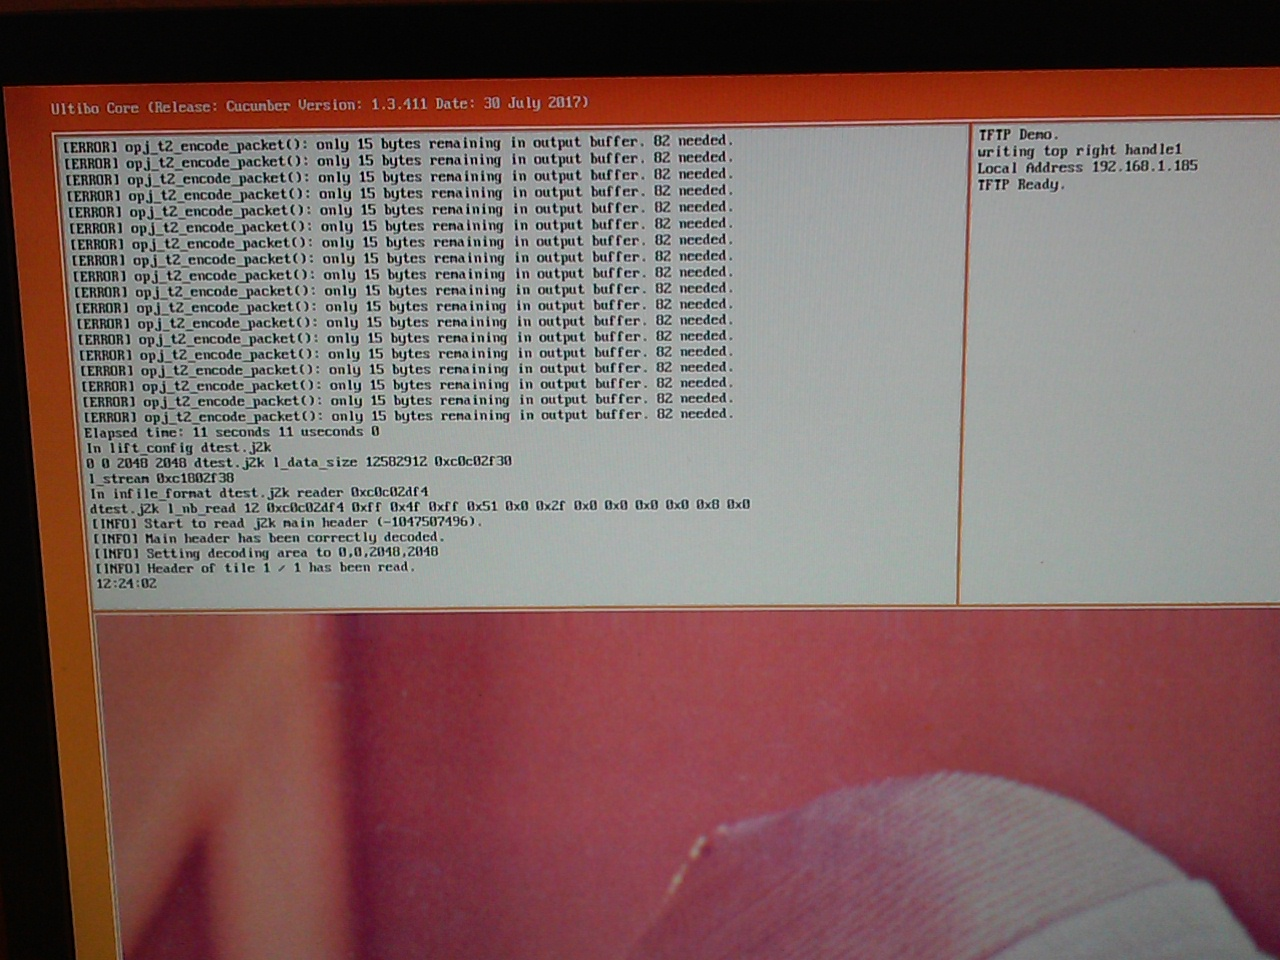
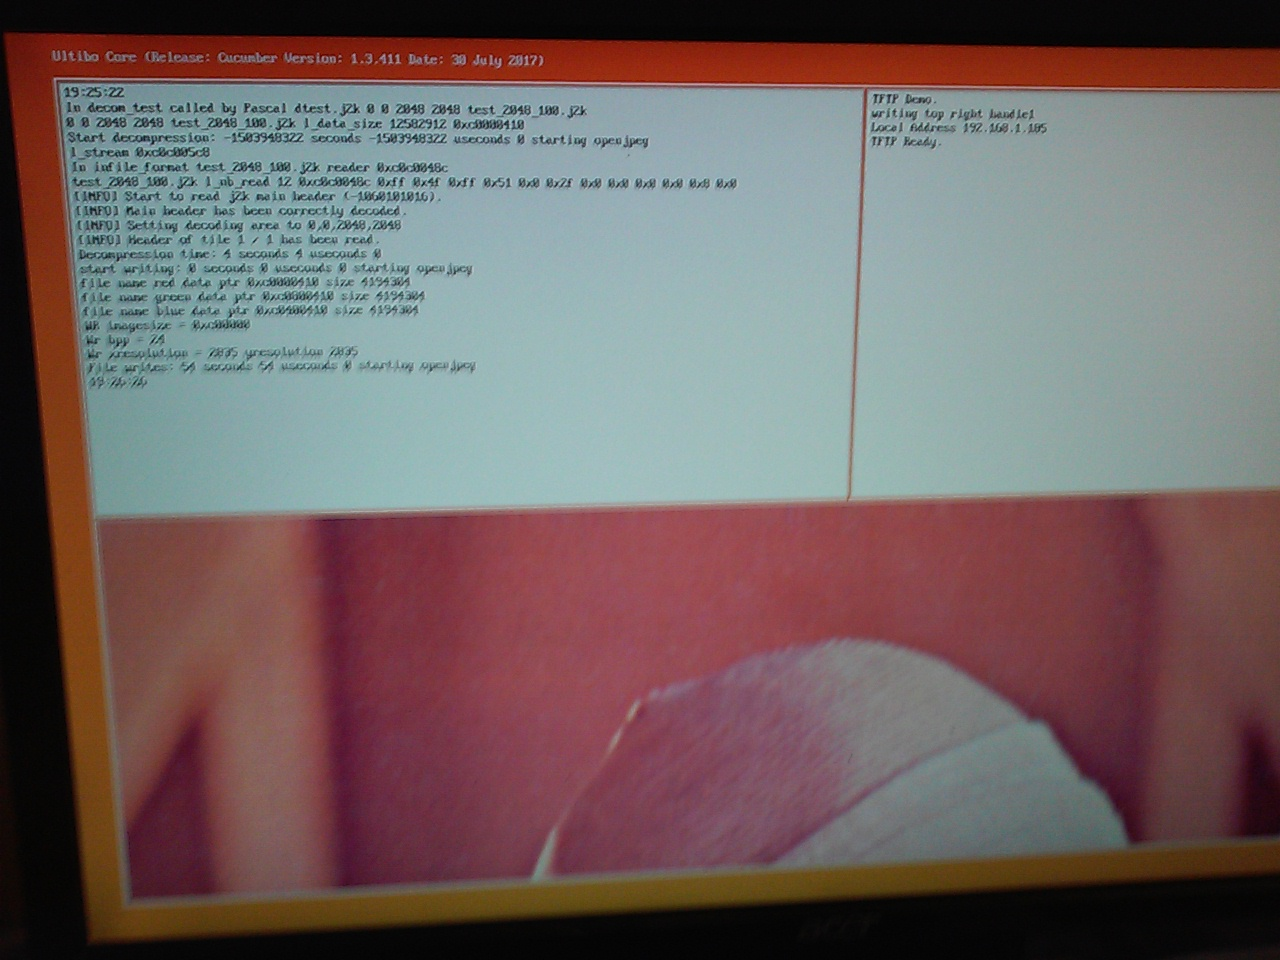
cd jpeg-2000-test/bare-metal/openjp/ export PATH=/home/pi/ultibo/core/fpc/bin:$PATH ./compile.sh creates kernel7.img
ENCODE:=0;  does decompression
Requires
 da_x0:=0;
 da_y0:=0;
 da_x1:=2048;
 da_y1:=2048;
 ff:='test_2048_100.j2k';

test_wr.bmp is the output file
displays test_wr,bmp

ENCODE:=1;  does compression
The input file is MyBitmap.bmp
FILTER 0 5/3 DWT
FILTER 1 9/7 DWT
DECOMP:=4; number of resolutions
DIS_CR_FLG := 0;	COMPRESSION_RATIO := 4;
DIS_CR_FLG := 1;	TCP_DISTORATIO:=60;
test,j2k is the output file

diff --git a/bare-metal/openjp/dwtlift.c b/bare-metal/openjp/dwtlift.c
@@ -112,7 +112,24 @@ void Wr_p_matrix(RGB** Matrix,char *r,char *g,char *b) {
 		}
 	}
 }
-
+void Wr_pp_matrix(RGB** Matrix,char *r,char *g,char *b) {
+	int i,j;
+	RGB tmp;
+	for (i=0; i<height; i++){
+		for (j=0; j<width; j++){
+			
+			//printf("%d %d 0x%x 0x%x 0x%x \n ",i,j,tmp.RGB[1],tmp.RGB[0],tmp.RGB[2]);
+			tmp.RGB[1] = r[0];
+			r++;
+			tmp.RGB[0] = b[0];
+			b++;			
+			tmp.RGB[2] = g[0];
+			g++;
+			//printf("0x%x 0x%x 0x%x \n",tmp.RGB[0],tmp.RGB[1],tmp.RGB[2]);	
+			Matrix[i][j] = tmp;		
+		}
+	}
+}
 /*upside down data in bitmap*/
 void p_matrix(RGB** Matrix,char *r,char *g,char *b) {
 	int i,j;
@@ -228,7 +245,7 @@ void writeImage(FILE *arqw, RGB** Matrix){
             tmp = Matrix[i][j];
             //printf("0x%x 0x%x 0x%x \n",tmp.RGB[0],tmp.RGB[1],tmp.RGB[2]);
             //fwrite(&tmp,(sizeof(RGB)),1,arqw);
-            //Matrix[i][j] = tmp;
+            Matrix[i][j] = tmp;
             wrbuf[0] = (char)tmp.RGB[0];
             wrbuf++;
             wrbuf[0] = (char)tmp.RGB[1];
@@ -251,25 +268,40 @@ void writeInfo(FILE *arqw,INFOHEADER infowrite){
     //INFOHEADER info;
     char type[3];
     int hdr;
-    char offset=122,unknow=108;
+	char offset=122,unknow=108;
     
     hdr = infowrite.height*infowrite.width*3+offset;
     type[0] = 0x42;
     type[1] = 0x4D;
-
+    
+	fseek(arqw,0,0);
+    fwrite(type,1,2,arqw);
     
     fseek(arqw,2,0);
     fwrite(&hdr,1,4,arqw);
 
+    type[0] = 0x00;
+    type[1] = 0x00;
+    type[2] = 0x00;
+
+    fseek(arqw,6,0);
+	fwrite(type,1,3,arqw);
+	
+    fseek(arqw,9,0);
+	fwrite(type,1,1,arqw);	  
+	  
     fseek(arqw,10,0);
     fwrite(&offset,1,1,arqw);
 
+    fseek(arqw,11,0);
+	fwrite(type,1,3,arqw);
+	
     fseek(arqw,14,0);
     fwrite(&unknow,1,1,arqw);
-    	
-	fseek(arqw,0,0);
-    fwrite(type,1,2,arqw);
-    
+
+    fseek(arqw,15,0);
+	fwrite(type,1,3,arqw);
+	    	    
     // Image Width in pixels
     fseek(arqw,18,0);
     fwrite(&infowrite.width,1,4,arqw);
@@ -295,7 +327,7 @@ void writeInfo(FILE *arqw,INFOHEADER infowrite){
     // Image size in bytes
     fseek(arqw,34,0);
     fwrite(&infowrite.imagesize,1,4,arqw);
-
+		
     fseek(arqw,38,0);
     fwrite(&infowrite.xresolution,1,4,arqw); 
     fseek(arqw,42,0);
@@ -313,11 +345,9 @@ void writeInfo(FILE *arqw,INFOHEADER infowrite){
  
     //return(info);
     //fclose(arqw);
-    type[0] = 0x00;
-    type[1] = 0x00;
-    type[1] = 0x00;
-	fseek(arqw,15,0);
-    fwrite(type,1,3,arqw);    
+
+	//fseek(arqw,15,0);
+    //fwrite(type,1,3,arqw);    
 }
 // ********** Verify if the file is BMP *********
 void isBMP(FILE* arq, INFOHEADER info){
@@ -625,11 +655,11 @@ int decompress(int da_x0, int da_y0, int da_x1, int da_y1,const char *input_file
  
 		printf("start writing: %ld seconds %ld useconds %ld starting openjpeg\n", mtime,seconds, useconds);		
 		r_decompress = 	l_data;
-		//octave_write_byte(r_decompress_fn,r_decompress,da_x1*da_y1);
-		g_decompress = 	l_data+da_x1*da_y1;
-		//octave_write_byte(g_decompress_fn,g_decompress,da_x1*da_y1);
-		b_decompress = 	l_data+da_x1*da_y1+da_x1*da_y1;
-		//octave_write_byte(b_decompress_fn,b_decompress,da_x1*da_y1);
+		octave_write_byte(r_decompress_fn,r_decompress,da_x1*da_y1);
+		g_decompress = 	l_data+da_x1*da_y1+da_x1*da_y1;
+		octave_write_byte(g_decompress_fn,g_decompress,da_x1*da_y1);
+		b_decompress = 	l_data+da_x1*da_y1;
+		octave_write_byte(b_decompress_fn,b_decompress,da_x1*da_y1);
 		/*
 		 *Writing the decompressed values 
 		 * 
@@ -659,7 +689,7 @@ int decompress(int da_x0, int da_y0, int da_x1, int da_y1,const char *input_file
 	Matrix_aux_wr = createMatrix();
  
 	
-	Wr_p_matrix(Matrix_aux_wr,b_decompress, g_decompress, r_decompress ); 
+	Wr_p_matrix(Matrix_aux_wr,g_decompress, b_decompress, r_decompress ); 
 	oo = fopen("test_wr.bmp","wb");
 	if (!oo) {
 			printf("Unable to open file for writing!");
@@ -675,12 +705,13 @@ int decompress(int da_x0, int da_y0, int da_x1, int da_y1,const char *input_file
 	infowr.planes = 1;
 	infowr.compression = 0;
 	infowr.impcolours = 0x73524742;
+	infowr.xresolution = 2835;
+	infowr.yresolution = 2835;
 	
-	printf("WR imagesc = 0x%x \n",infowr.imagesize);
+	printf("WR imagesize = 0x%x \n",infowr.imagesize);
 	printf("Wr bpp = %d \n",infowr.bpp);
 	printf("Wr xresolution = %d yresolution %d \n",infowr.xresolution,infowr.yresolution);
-	printf("bpp = %d \n",infowr.bpp);
-	printf("xresolution = %d yresolution %d \n",infowr.xresolution,infowr.yresolution);
+ 
 	writeInfo(oo,infowr);
 	writeImage(oo,Matrix_aux_wr);
 	free(Matrix_aux_wr);
@@ -779,7 +810,7 @@ void lift_config(int dec, int enc, int TCP_DISTORATIO, int FILTER, int CR, int f
 	int height, width;
 	int TopDown,plot;
 	TopDown = 0;
-	plot = 0;
+	plot = 1;
 	if (flg==0) printf("in lift_config dec %d enc %d compression CR %d bpp %d flg %d \n", dec,enc,CR,bp,flg);
 	else printf("in lift_config dec %d enc %d distoratio %d bpp %d CR %d flg %d \n", dec,enc,TCP_DISTORATIO,bp,CR,flg);
 	decomp = dec;
@@ -815,10 +846,10 @@ void lift_config(int dec, int enc, int TCP_DISTORATIO, int FILTER, int CR, int f
  
 	TopDown = 0;
 	
- 	/*char *r,*g,*b;
+ 	char *r,*g,*b;
 	const char *octave_output_file_1;
 	const char *octave_output_file_2;
-	const char *octave_output_file_3;*/
+	const char *octave_output_file_3;
 	#define NUM_COMPS_MAX 4
 	opj_cparameters_t l_param;
 	opj_codec_t * l_codec;
@@ -919,18 +950,43 @@ void lift_config(int dec, int enc, int TCP_DISTORATIO, int FILTER, int CR, int f
 		l_data[i+(imgsz/3)] = (OPJ_BYTE)r[i];
 		l_data[i+(imgsz/3)*2] = (OPJ_BYTE)b[i];	
 		*/
-		/*red to blue*/
-		l_data[i+(imgsz/3)*2] = (OPJ_BYTE)lclip[0];
+		if(i==0) printf("0x%x 0x%x 0x%x\n", lclip[0],lclip[1],lclip[2]);
+					
+		/*green from Pascal*/
+		l_data[i+(imgsz/3)*2]  = (OPJ_BYTE)lclip[0];
 		lclip++;
-		/*green to green*/
-		l_data[i+(imgsz/3)]  = (OPJ_BYTE)lclip[0];
-		lclip++;		
-		/*blue to red*/
+						
+		/*blue from Pascal*/
+		l_data[i+(imgsz/3)] = (OPJ_BYTE)lclip[0];
+		lclip++;
+
+		/*red from Pascal*/
 		l_data[i] = (OPJ_BYTE)lclip[0];
 		lclip++;
-
-
 	}
+	b = l_data+(imgsz/3);
+	g = l_data+(imgsz/3*2);
+	r = l_data;
+	if(plot == 1) {
+			
+		printf("write the files \n");
+		printf("red-out.32t, grn-out.32t, and blu-out.32t\n");
+		octave_output_file_1 = "red-out.32t";
+			 
+			
+		i = octave_write_byte(octave_output_file_1,r , width*height);
+		if(i == 0) printf("could not write file\n");
+	
+		octave_output_file_2 = "grn-out.32t";
+		//i = octave_write(octave_output_file_2, imgbm->m_green, sz);
+		i = octave_write_byte(octave_output_file_2, g, width*height);	
+		if(i == 0) printf("could not write file\n");
+	
+		octave_output_file_3 = "blu-out.32t";
+			 
+		i = octave_write_byte(octave_output_file_3, b, width*height);
+		if(i == 0) printf("could not write file\n");
+		}
 
 	/*
 	printf("before reset 0x%x 0x%x 0x%x \n",r,g,b); 

diff --git a/bare-metal/openjp/disp_rgb.m b/bare-metal/openjp/disp_rgb.m
@@ -1,11 +1,14 @@
-fid = fopen('red-out.32t','r'); im1 = fread(fid, [1024,inf], 'char'); fclose(fid);
-figure; imagesc(im1); colorbar; colormap 'gray';title"red sub band 1024 x 1024 RPi bare-metal ultibo "
-
-fid = fopen('grn-out.32t','r'); im2 = fread(fid, [1024,inf], 'char'); fclose(fid);
-figure; imagesc(im2); colorbar; colormap 'gray';title"green sub band 1024 x 1024 RPi bare-metal ultibo "
-
-fid = fopen('blu-out.32t','r'); im3 = fread(fid, [1024,inf], 'char'); fclose(fid);
-figure; imagesc(im3); colorbar; colormap 'gray';title"blue sub band 1024 x 1024 RPi bare-metal ultibo "
-
-fid = fopen('dwt-out.32t','r'); im4 = fread(fid, [1024,inf], 'int32'); fclose(fid);
-figure; imagesc(im4); colorbar; colormap 'gray';title" 1024 x 1024 n = 5 lvls numresolution 4 RPi bare-metal ultibo "
+fid = fopen('red-out.32t','r'); im1 = fread(fid, [256,inf], 'char'); fclose(fid);
+figure; imagesc(im1); colorbar; colormap 'gray';
+ 
+title"RED SUB BAND INPUT 256 x 256 RPi BARE-METAL ULTIBO"
+fid = fopen('grn-out.32t','r'); im2 = fread(fid, [256,inf], 'char'); fclose(fid);
+figure; imagesc(im2); colorbar; colormap 'gray';
+ 
+title"GREEN SUB BAND INPUT 256 x 256 RPi BARE-METAL ULTIBO"
+fid = fopen('blu-out.32t','r'); im3 = fread(fid, [256,inf], 'char'); fclose(fid);
+figure; imagesc(im3); colorbar; colormap 'gray';
+ 
+title"BLUE SUB BAND INPUT 256 x 256 RPi BARE-METAL ULTIBO"
+%fid = fopen('dwt-out.32t','r'); im4 = fread(fid, [256,inf], 'int32'); fclose(fid);
+%figure; imagesc(im4); colorbar; colormap 'gray';title" 256 x 256 n = 5 lvls numresolution 4 RPi bare-metal ultibo "

diff --git a/bare-metal/openjp/disp_decomp_rgb.m b/bare-metal/openjp/disp_decomp_rgb.m
@@ -1,9 +1,9 @@
-fid = fopen('red','r'); im1 = fread(fid, [2048,inf], 'char'); fclose(fid);
-figure; imagesc(im1);colorbar;
-title 'RED DECOMPRESSED 2048 x 2048';
-fid = fopen('green','r'); im2 = fread(fid, [2048,inf], 'char'); fclose(fid);
-figure; imagesc(im2);colorbar
-title 'GREEN DECOMPRESSED 2048 x 2048';
-fid = fopen('blue','r'); im3 = fread(fid, [2048,inf], 'char'); fclose(fid);
-figure; imagesc(im3);colorbar
-title 'BLUE DECOMPRESSED 2048 x 2048';
+fid = fopen('red','r'); im4 = fread(fid, [256,inf], 'char'); fclose(fid);
+figure; imagesc(im4);colorbar; colormap 'gray';
+title 'RED DECOMPRESSED 256 x 256 bare metal';
+fid = fopen('green','r'); im5 = fread(fid, [256,inf], 'char'); fclose(fid);
+figure; imagesc(im5);colorbar; colormap 'gray';
+title 'GREEN DECOMPRESSED 256 x 256 bare metal';
+fid = fopen('blue','r'); im6 = fread(fid, [256,inf], 'char'); fclose(fid);
+figure; imagesc(im6);colorbar; colormap 'gray';
+title 'BLUE DECOMPRESSED 256 x 256 bare metal';
